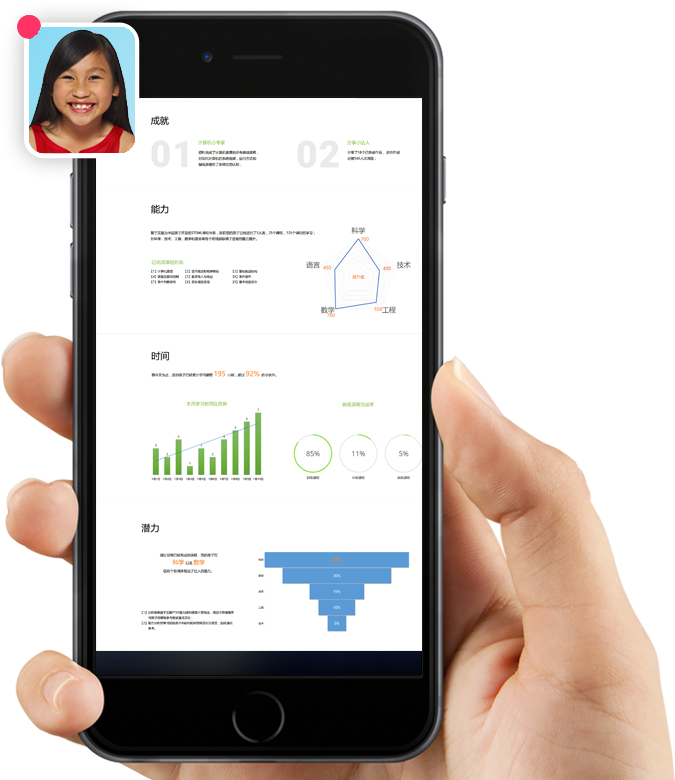
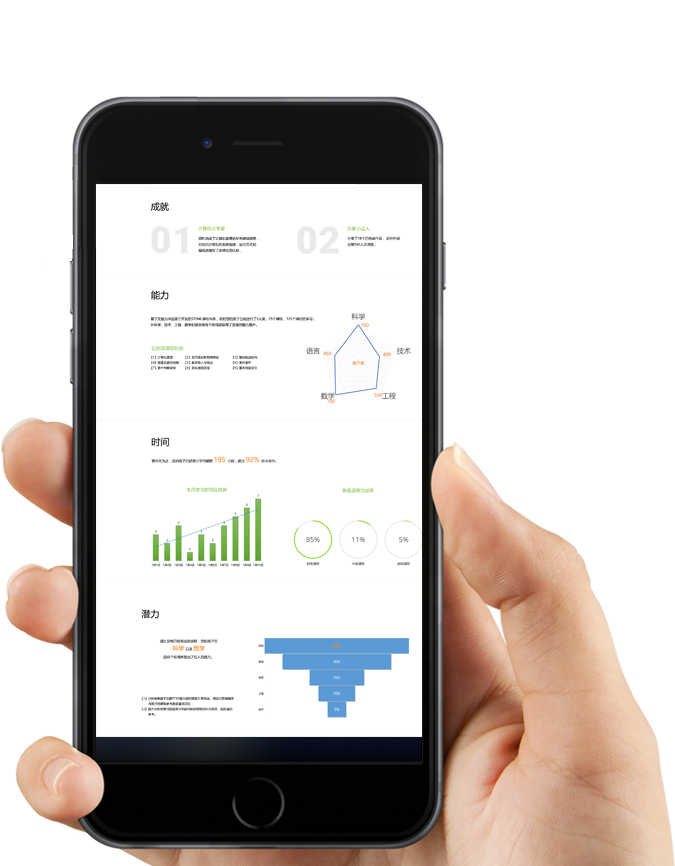
.

diff --git a/iKCoder/styles/parents.css b/iKCoder/styles/parents.css
@@ -524,6 +524,13 @@ table.list-container {
     padding-top: 95px;
 }
 
+@media screen and (min-width: 2559px) and (min-height: 1439px) {
+    .report-focus-child-img-wrap {
+        top: 230px;
+        left: 210px;
+    }
+}
+
 @media screen and (min-width: 1920px) and (max-height: 1080px) {
     .padding-v-dynamic {
         padding-top: 350px;
